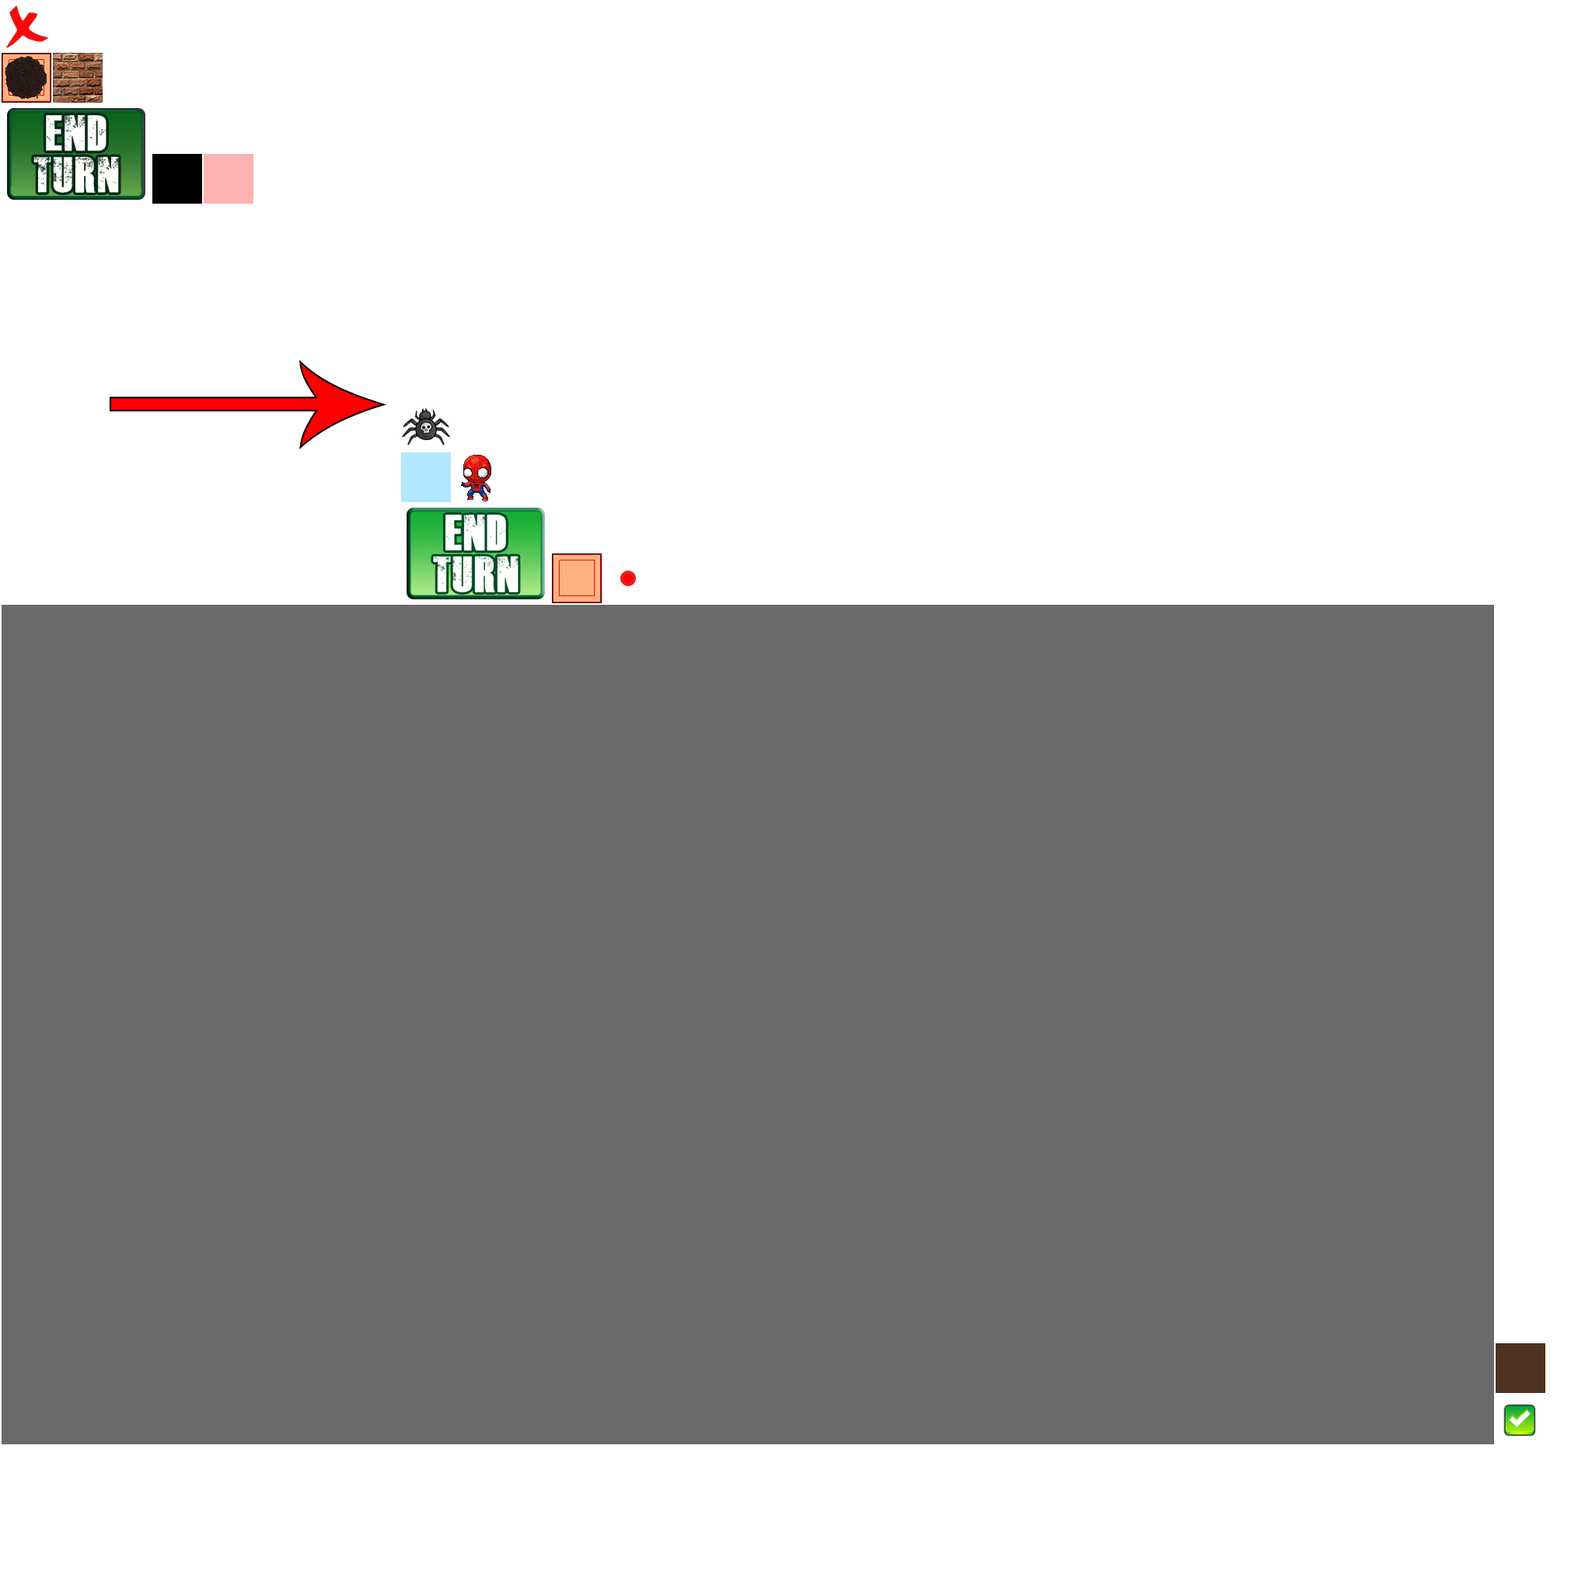
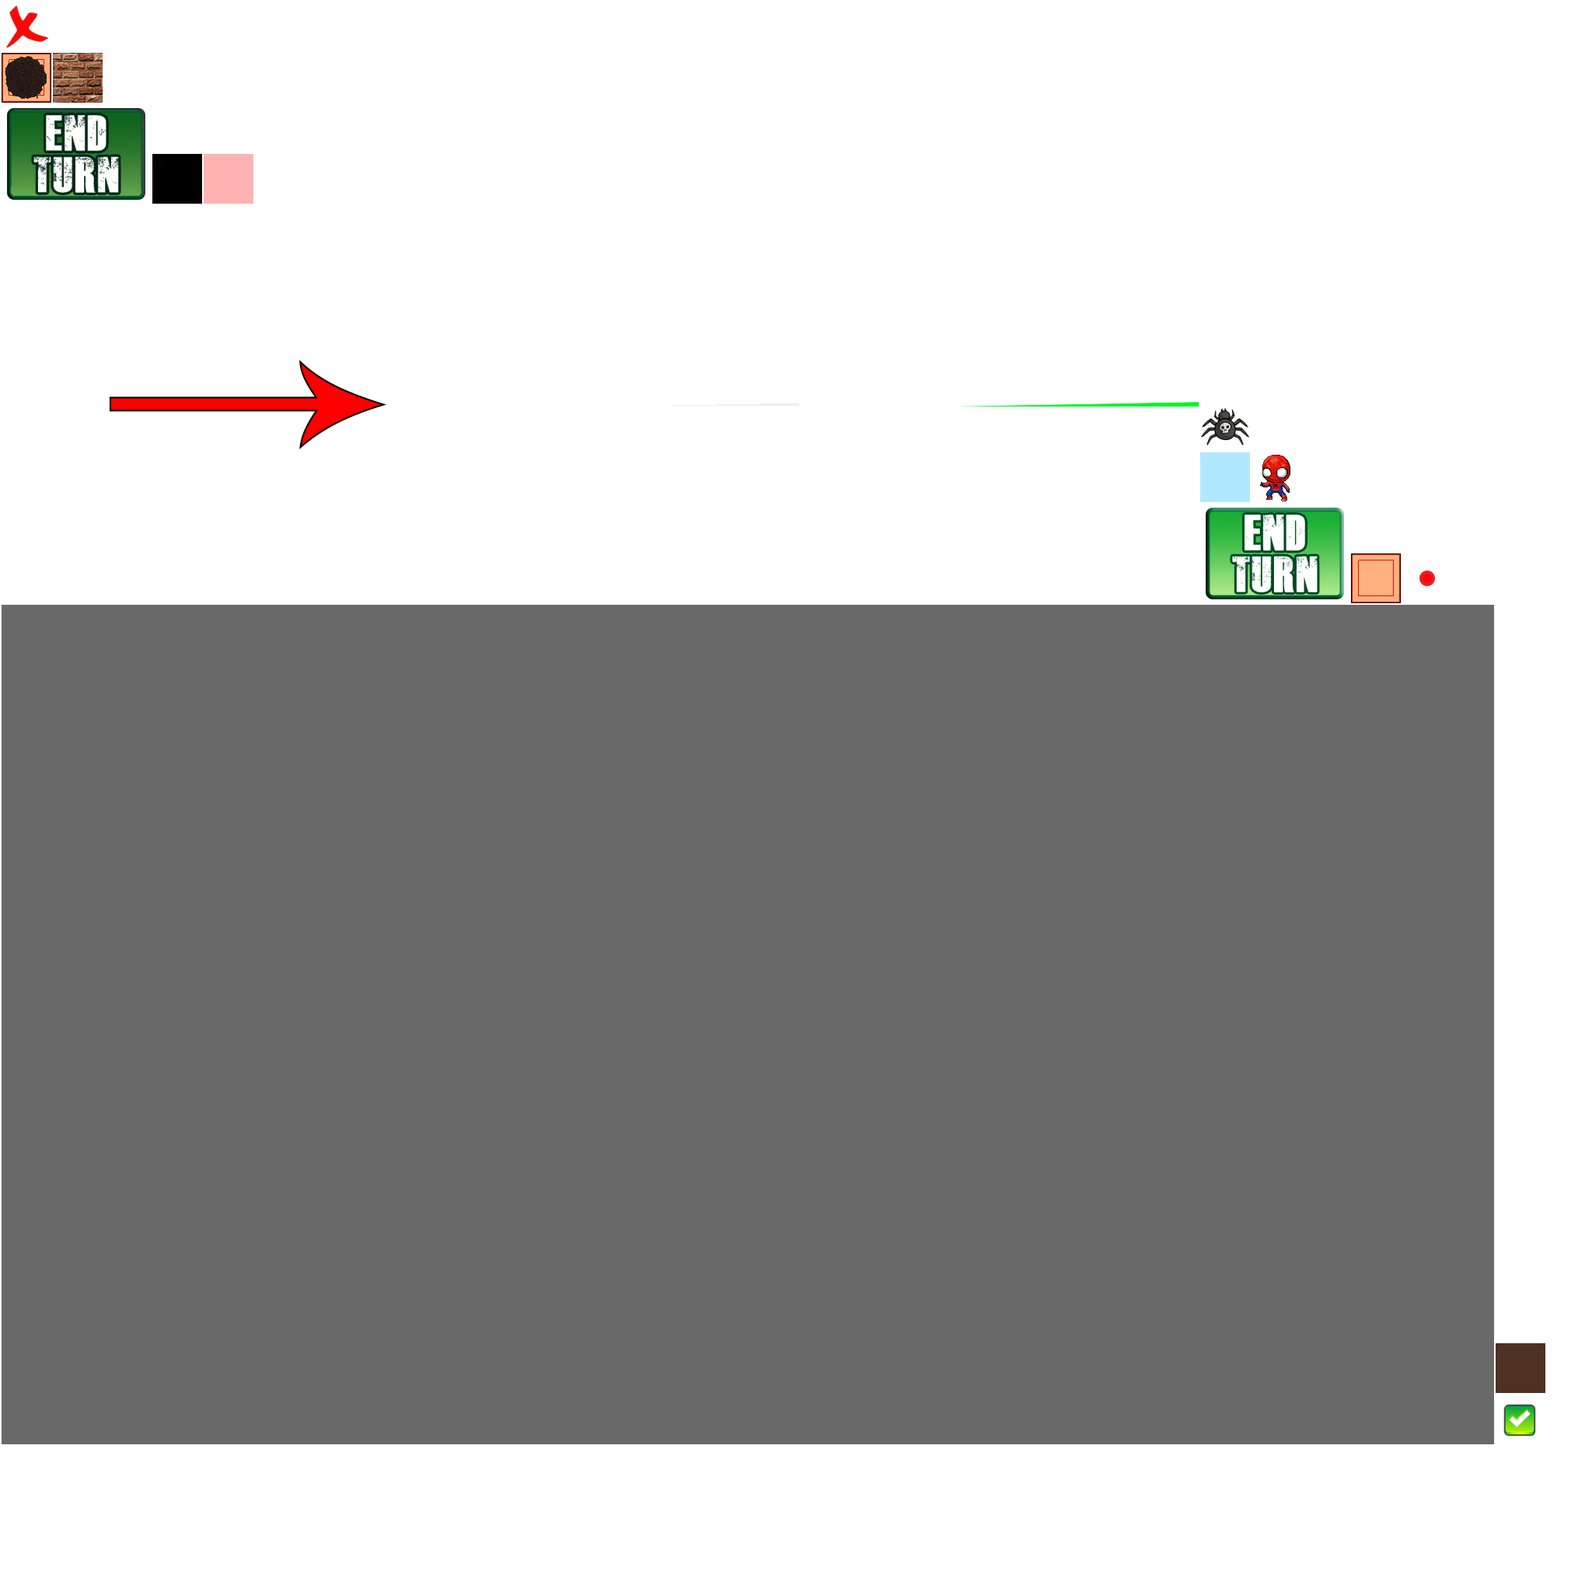
Moved some components and systems in sub packages + test of drawing the wheel using sprites and not shapeRenderer, it works but it's not that pretty. I commented the code and kept the shapeRenderer way for now

Changed region(s): [[0.75, 0.25, 0.9062, 0.4062], [0.25, 0.25, 0.4062, 0.4062]]

diff --git a/core/src/com/dokkaebistudio/tacticaljourney/GameScreen.java b/core/src/com/dokkaebistudio/tacticaljourney/GameScreen.java
@@ -31,13 +31,13 @@ import com.badlogic.gdx.math.Vector3;
 import com.dokkaebistudio.tacticaljourney.components.WheelComponent;
 import com.dokkaebistudio.tacticaljourney.room.Room;
 import com.dokkaebistudio.tacticaljourney.systems.AnimationSystem;
-import com.dokkaebistudio.tacticaljourney.systems.DamageDisplaySystem;
 import com.dokkaebistudio.tacticaljourney.systems.EnemyMoveSystem;
 import com.dokkaebistudio.tacticaljourney.systems.KeyInputMovementSystem;
 import com.dokkaebistudio.tacticaljourney.systems.PlayerAttackSystem;
 import com.dokkaebistudio.tacticaljourney.systems.PlayerMoveSystem;
-import com.dokkaebistudio.tacticaljourney.systems.RenderingSystem;
 import com.dokkaebistudio.tacticaljourney.systems.WheelSystem;
+import com.dokkaebistudio.tacticaljourney.systems.display.DamageDisplaySystem;
+import com.dokkaebistudio.tacticaljourney.systems.display.RenderingSystem;
 
 public class GameScreen extends ScreenAdapter {
 	private static final int GAME_RUNNING = 1;
@@ -58,8 +58,8 @@ public class GameScreen extends ScreenAdapter {
 	private static final Color CRITICAL_COLOR = Color.RED;
 	private static final Color GRAZE_COLOR = Color.GRAY;
 	private static final int WHEEL_RADIUS = 256;
-	private static final int WHEEL_X = SCREEN_W / 2;
-	private static final int WHEEL_Y = SCREEN_H/2;
+	public static final int WHEEL_X = SCREEN_W / 2;
+	public static final int WHEEL_Y = SCREEN_H/2;
 	
 
 	AttackWheel attackWheel = new AttackWheel();
@@ -177,10 +177,16 @@ public class GameScreen extends ScreenAdapter {
 			for(WheelComponent.Sector s: attackWheel.getSectors()){
 				normalizeRanges.add(s.range * 360f / (float)total); // the sum of all ranges is 360 now
 			}
+			
 			// begin render
 			game.shapeRenderer.setProjectionMatrix(guiCam.combined);
 			game.shapeRenderer.begin(ShapeRenderer.ShapeType.Filled);
+			// Draw a black circle behind (in case of missing sectors)
+			game.shapeRenderer.setColor(HIT_COLOR);
+			game.shapeRenderer.arc(WHEEL_X, WHEEL_Y, WHEEL_RADIUS-1, 0, 360);
+			
 			int rangeCumul = 0;
+			
 			for(int i = 0; i< attackWheel.getSectors().size(); i++) {
 				// color
 				switch (attackWheel.getSectors().get(i).hit){
@@ -208,12 +214,45 @@ public class GameScreen extends ScreenAdapter {
 			guiCam.update();
 			game.batcher.setProjectionMatrix(guiCam.combined);
 			game.batcher.begin();
+			
+//			int rangeCumul = 0;
+//			for (Sector s : attackWheel.getSectors()) {
+//				for (int i=rangeCumul ; i < rangeCumul + s.range ; i++) {
+//					Sprite sprite = attackWheel.getArcs().get(i);
+//					switch (s.hit) {
+//					case HIT:
+//						sprite.setColor(HIT_COLOR);
+//						break;
+//					case CRITICAL:
+//						sprite.setColor(CRITICAL_COLOR);
+//						break;
+//					case GRAZE:
+//						sprite.setColor(GRAZE_COLOR);
+//						break;
+//					case MISS:
+//						sprite.setColor(MISS_COLOR);
+//						break;
+//					}
+//				}
+//				rangeCumul += s.range;
+//			}
+//			
+//			List<Sprite> reversedArcs = new ArrayList<>();
+//			reversedArcs.addAll(attackWheel.getArcs());
+//			Collections.reverse(reversedArcs);
+//			for (Sprite arc : reversedArcs) {
+//				arc.draw(game.batcher);
+//			}
+			
+			
+			// Render the arrow
 			Sprite arrow = attackWheel.getArrow();
 			arrow.setPosition(WHEEL_X - arrow.getWidth()/2, WHEEL_Y - arrow.getHeight()/2);
 			arrow.draw(game.batcher);
+			
 			game.batcher.end();
 			
-		}
+		} 
 
 
 	}

diff --git a/core/src/com/dokkaebistudio/tacticaljourney/EntityFactory.java b/core/src/com/dokkaebistudio/tacticaljourney/EntityFactory.java
@@ -11,19 +11,19 @@ import com.badlogic.gdx.graphics.g2d.TextureAtlas;
 import com.badlogic.gdx.math.Vector2;
 import com.badlogic.gdx.math.Vector3;
 import com.dokkaebistudio.tacticaljourney.components.AttackComponent;
-import com.dokkaebistudio.tacticaljourney.components.DamageDisplayComponent;
 import com.dokkaebistudio.tacticaljourney.components.EnemyComponent;
-import com.dokkaebistudio.tacticaljourney.components.GridPositionComponent;
 import com.dokkaebistudio.tacticaljourney.components.HealthComponent;
-import com.dokkaebistudio.tacticaljourney.components.MoveComponent;
 import com.dokkaebistudio.tacticaljourney.components.PlayerComponent;
 import com.dokkaebistudio.tacticaljourney.components.SolidComponent;
-import com.dokkaebistudio.tacticaljourney.components.SpriteComponent;
-import com.dokkaebistudio.tacticaljourney.components.TextComponent;
 import com.dokkaebistudio.tacticaljourney.components.TileComponent;
 import com.dokkaebistudio.tacticaljourney.components.TileComponent.TileEnum;
-import com.dokkaebistudio.tacticaljourney.systems.RenderingSystem;
-import com.dokkaebistudio.tacticaljourney.components.TransformComponent;
+import com.dokkaebistudio.tacticaljourney.components.display.DamageDisplayComponent;
+import com.dokkaebistudio.tacticaljourney.components.display.GridPositionComponent;
+import com.dokkaebistudio.tacticaljourney.components.display.MoveComponent;
+import com.dokkaebistudio.tacticaljourney.components.display.SpriteComponent;
+import com.dokkaebistudio.tacticaljourney.components.display.TextComponent;
+import com.dokkaebistudio.tacticaljourney.components.display.TransformComponent;
+import com.dokkaebistudio.tacticaljourney.systems.display.RenderingSystem;
 import com.dokkaebistudio.tacticaljourney.components.WheelComponent;
 
 /**

diff --git a/core/src/com/dokkaebistudio/tacticaljourney/systems/PlayerAttackSystem.java b/core/src/com/dokkaebistudio/tacticaljourney/systems/PlayerAttackSystem.java
@@ -9,14 +9,14 @@ import com.dokkaebistudio.tacticaljourney.AttackWheel;
 import com.dokkaebistudio.tacticaljourney.GameScreen;
 import com.dokkaebistudio.tacticaljourney.InputSingleton;
 import com.dokkaebistudio.tacticaljourney.components.AttackComponent;
-import com.dokkaebistudio.tacticaljourney.components.GridPositionComponent;
 import com.dokkaebistudio.tacticaljourney.components.HealthComponent;
-import com.dokkaebistudio.tacticaljourney.components.MoveComponent;
 import com.dokkaebistudio.tacticaljourney.components.PlayerComponent;
-import com.dokkaebistudio.tacticaljourney.components.SpriteComponent;
 import com.dokkaebistudio.tacticaljourney.components.TileComponent;
-import com.dokkaebistudio.tacticaljourney.components.TransformComponent;
 import com.dokkaebistudio.tacticaljourney.components.WheelComponent.Sector;
+import com.dokkaebistudio.tacticaljourney.components.display.GridPositionComponent;
+import com.dokkaebistudio.tacticaljourney.components.display.MoveComponent;
+import com.dokkaebistudio.tacticaljourney.components.display.SpriteComponent;
+import com.dokkaebistudio.tacticaljourney.components.display.TransformComponent;
 import com.dokkaebistudio.tacticaljourney.room.Room;
 import com.dokkaebistudio.tacticaljourney.room.RoomState;
 import com.dokkaebistudio.tacticaljourney.util.TileUtil;

diff --git a/core/src/com/dokkaebistudio/tacticaljourney/systems/display/RenderingSystem.java b/core/src/com/dokkaebistudio/tacticaljourney/systems/display/RenderingSystem.java
@@ -14,7 +14,7 @@
  * limitations under the License.
  ******************************************************************************/
 
-package com.dokkaebistudio.tacticaljourney.systems;
+package com.dokkaebistudio.tacticaljourney.systems.display;
 
 import static com.dokkaebistudio.tacticaljourney.GameScreen.SCREEN_H;
 import static com.dokkaebistudio.tacticaljourney.GameScreen.SCREEN_W;
@@ -30,10 +30,10 @@ import com.badlogic.gdx.graphics.g2d.SpriteBatch;
 import com.badlogic.gdx.math.Vector2;
 import com.badlogic.gdx.utils.Array;
 import com.dokkaebistudio.tacticaljourney.GameScreen;
-import com.dokkaebistudio.tacticaljourney.components.GridPositionComponent;
-import com.dokkaebistudio.tacticaljourney.components.SpriteComponent;
-import com.dokkaebistudio.tacticaljourney.components.TextComponent;
-import com.dokkaebistudio.tacticaljourney.components.TransformComponent;
+import com.dokkaebistudio.tacticaljourney.components.display.GridPositionComponent;
+import com.dokkaebistudio.tacticaljourney.components.display.SpriteComponent;
+import com.dokkaebistudio.tacticaljourney.components.display.TextComponent;
+import com.dokkaebistudio.tacticaljourney.components.display.TransformComponent;
 
 public class RenderingSystem extends IteratingSystem {
 

diff --git a/core/src/com/dokkaebistudio/tacticaljourney/AttackWheel.java b/core/src/com/dokkaebistudio/tacticaljourney/AttackWheel.java
@@ -1,5 +1,6 @@
 package com.dokkaebistudio.tacticaljourney;
 
+import java.util.ArrayList;
 import java.util.LinkedList;
 import java.util.List;
 
@@ -15,6 +16,9 @@ public class AttackWheel {
 	/** The list of sectors that compose the wheel. */
 	private List<WheelComponent.Sector> sectors;
 	
+//	/** The 360 arcs that compose the wheel. */
+//	private List<Sprite> arcs;
+	
 	/** The arrow that spins. */
 	private Sprite arrow;
 	
@@ -26,6 +30,14 @@ public class AttackWheel {
 		this.displayed = false;
 		this.sectors = new LinkedList<WheelComponent.Sector>();
 		this.arrow = new Sprite(Assets.getTexture(Assets.wheel_arrow));
+		
+//		this.arcs = new ArrayList<>();
+//		for (int i=0 ; i<360 ; i++) {
+//			Sprite arcSprite = new Sprite(Assets.getTexture(Assets.wheel_arc));
+//			arcSprite.setPosition(GameScreen.WHEEL_X - arcSprite.getWidth()/2, GameScreen.WHEEL_Y - arcSprite.getHeight()/2);
+//			arcSprite.setRotation(i);
+//			this.arcs.add(arcSprite);
+//		}
 	}
 	
 	/**
@@ -86,4 +98,14 @@ public class AttackWheel {
 	public Sector getPointedSector() {
 		return pointedSector;
 	}
+
+//	public List<Sprite> getArcs() {
+//		return arcs;
+//	}
+//
+//	public void setArcs(List<Sprite> arcs) {
+//		this.arcs = arcs;
+//	}
+	
+	
 }

diff --git a/core/src/com/dokkaebistudio/tacticaljourney/room/AttackManager.java b/core/src/com/dokkaebistudio/tacticaljourney/room/AttackManager.java
@@ -9,13 +9,13 @@ import com.badlogic.gdx.math.Vector2;
 import com.dokkaebistudio.tacticaljourney.Assets;
 import com.dokkaebistudio.tacticaljourney.GameScreen;
 import com.dokkaebistudio.tacticaljourney.components.AttackComponent;
-import com.dokkaebistudio.tacticaljourney.components.DamageDisplayComponent;
-import com.dokkaebistudio.tacticaljourney.components.GridPositionComponent;
 import com.dokkaebistudio.tacticaljourney.components.HealthComponent;
-import com.dokkaebistudio.tacticaljourney.components.TextComponent;
-import com.dokkaebistudio.tacticaljourney.components.TransformComponent;
 import com.dokkaebistudio.tacticaljourney.components.WheelComponent.Sector;
-import com.dokkaebistudio.tacticaljourney.systems.RenderingSystem;
+import com.dokkaebistudio.tacticaljourney.components.display.DamageDisplayComponent;
+import com.dokkaebistudio.tacticaljourney.components.display.GridPositionComponent;
+import com.dokkaebistudio.tacticaljourney.components.display.TextComponent;
+import com.dokkaebistudio.tacticaljourney.components.display.TransformComponent;
+import com.dokkaebistudio.tacticaljourney.systems.display.RenderingSystem;
 
 /**
  * Manage the attacks between entities, checks whether the attack lands or fails,

diff --git a/core/src/com/dokkaebistudio/tacticaljourney/systems/PlayerMoveSystem.java b/core/src/com/dokkaebistudio/tacticaljourney/systems/PlayerMoveSystem.java
@@ -14,12 +14,12 @@ import com.dokkaebistudio.tacticaljourney.GameScreen;
 import com.dokkaebistudio.tacticaljourney.InputSingleton;
 import com.dokkaebistudio.tacticaljourney.ai.movements.TileSearchUtil;
 import com.dokkaebistudio.tacticaljourney.components.AttackComponent;
-import com.dokkaebistudio.tacticaljourney.components.GridPositionComponent;
-import com.dokkaebistudio.tacticaljourney.components.MoveComponent;
 import com.dokkaebistudio.tacticaljourney.components.PlayerComponent;
-import com.dokkaebistudio.tacticaljourney.components.SpriteComponent;
 import com.dokkaebistudio.tacticaljourney.components.TileComponent;
-import com.dokkaebistudio.tacticaljourney.components.TransformComponent;
+import com.dokkaebistudio.tacticaljourney.components.display.GridPositionComponent;
+import com.dokkaebistudio.tacticaljourney.components.display.MoveComponent;
+import com.dokkaebistudio.tacticaljourney.components.display.SpriteComponent;
+import com.dokkaebistudio.tacticaljourney.components.display.TransformComponent;
 import com.dokkaebistudio.tacticaljourney.room.Room;
 import com.dokkaebistudio.tacticaljourney.room.RoomState;
 import com.dokkaebistudio.tacticaljourney.util.MovementHandler;

diff --git a/core/src/com/dokkaebistudio/tacticaljourney/components/display/AnimationComponent.java b/core/src/com/dokkaebistudio/tacticaljourney/components/display/AnimationComponent.java
@@ -1,5 +1,5 @@
 /*******************************************************************************
- * Copyright 2014 See AUTHORS file.
+ * Copyright 2011 See AUTHORS file.
  * 
  * Licensed under the Apache License, Version 2.0 (the "License");
  * you may not use this file except in compliance with the License.
@@ -14,14 +14,13 @@
  * limitations under the License.
  ******************************************************************************/
 
-package com.dokkaebistudio.tacticaljourney.components;
+package com.dokkaebistudio.tacticaljourney.components.display;
 
 import com.badlogic.ashley.core.Component;
-import com.badlogic.gdx.math.Vector2;
-import com.badlogic.gdx.math.Vector3;
+import com.badlogic.gdx.graphics.g2d.Animation;
+import com.badlogic.gdx.graphics.g2d.Sprite;
+import com.badlogic.gdx.utils.IntMap;
 
-public class TransformComponent implements Component {
-	public final Vector3 pos = new Vector3();
-	public final Vector2 scale = new Vector2(1.0f, 1.0f);
-	public float rotation = 0.0f;
+public class AnimationComponent implements Component {
+	public IntMap<Animation<Sprite>> animations = new IntMap<Animation<Sprite>>();
 }

diff --git a/core/src/com/dokkaebistudio/tacticaljourney/components/display/TransformComponent.java b/core/src/com/dokkaebistudio/tacticaljourney/components/display/TransformComponent.java
@@ -1,5 +1,5 @@
 /*******************************************************************************
- * Copyright 2011 See AUTHORS file.
+ * Copyright 2014 See AUTHORS file.
  * 
  * Licensed under the Apache License, Version 2.0 (the "License");
  * you may not use this file except in compliance with the License.
@@ -14,13 +14,14 @@
  * limitations under the License.
  ******************************************************************************/
 
-package com.dokkaebistudio.tacticaljourney.components;
+package com.dokkaebistudio.tacticaljourney.components.display;
 
 import com.badlogic.ashley.core.Component;
-import com.badlogic.gdx.graphics.g2d.Animation;
-import com.badlogic.gdx.graphics.g2d.Sprite;
-import com.badlogic.gdx.utils.IntMap;
+import com.badlogic.gdx.math.Vector2;
+import com.badlogic.gdx.math.Vector3;
 
-public class AnimationComponent implements Component {
-	public IntMap<Animation<Sprite>> animations = new IntMap<Animation<Sprite>>();
+public class TransformComponent implements Component {
+	public final Vector3 pos = new Vector3();
+	public final Vector2 scale = new Vector2(1.0f, 1.0f);
+	public float rotation = 0.0f;
 }

diff --git a/core/src/com/dokkaebistudio/tacticaljourney/systems/EnemyMoveSystem.java b/core/src/com/dokkaebistudio/tacticaljourney/systems/EnemyMoveSystem.java
@@ -12,11 +12,11 @@ import com.badlogic.ashley.utils.ImmutableArray;
 import com.dokkaebistudio.tacticaljourney.ai.movements.TileSearchUtil;
 import com.dokkaebistudio.tacticaljourney.components.AttackComponent;
 import com.dokkaebistudio.tacticaljourney.components.EnemyComponent;
-import com.dokkaebistudio.tacticaljourney.components.GridPositionComponent;
-import com.dokkaebistudio.tacticaljourney.components.MoveComponent;
-import com.dokkaebistudio.tacticaljourney.components.SpriteComponent;
 import com.dokkaebistudio.tacticaljourney.components.TileComponent;
-import com.dokkaebistudio.tacticaljourney.components.TransformComponent;
+import com.dokkaebistudio.tacticaljourney.components.display.GridPositionComponent;
+import com.dokkaebistudio.tacticaljourney.components.display.MoveComponent;
+import com.dokkaebistudio.tacticaljourney.components.display.SpriteComponent;
+import com.dokkaebistudio.tacticaljourney.components.display.TransformComponent;
 import com.dokkaebistudio.tacticaljourney.room.Room;
 import com.dokkaebistudio.tacticaljourney.room.RoomState;
 import com.dokkaebistudio.tacticaljourney.util.MovementHandler;

diff --git a/core/src/com/dokkaebistudio/tacticaljourney/util/MovementHandler.java b/core/src/com/dokkaebistudio/tacticaljourney/util/MovementHandler.java
@@ -8,12 +8,12 @@ import com.badlogic.ashley.core.ComponentMapper;
 import com.badlogic.ashley.core.Entity;
 import com.badlogic.ashley.core.PooledEngine;
 import com.badlogic.gdx.math.Vector2;
-import com.dokkaebistudio.tacticaljourney.components.GridPositionComponent;
-import com.dokkaebistudio.tacticaljourney.components.MoveComponent;
-import com.dokkaebistudio.tacticaljourney.components.TransformComponent;
+import com.dokkaebistudio.tacticaljourney.components.display.GridPositionComponent;
+import com.dokkaebistudio.tacticaljourney.components.display.MoveComponent;
+import com.dokkaebistudio.tacticaljourney.components.display.TransformComponent;
 import com.dokkaebistudio.tacticaljourney.components.interfaces.MovableInterface;
 import com.dokkaebistudio.tacticaljourney.room.Room;
-import com.dokkaebistudio.tacticaljourney.systems.RenderingSystem;
+import com.dokkaebistudio.tacticaljourney.systems.display.RenderingSystem;
 
 /**
  * @author Callil

diff --git a/core/src/com/dokkaebistudio/tacticaljourney/systems/display/DamageDisplaySystem.java b/core/src/com/dokkaebistudio/tacticaljourney/systems/display/DamageDisplaySystem.java
@@ -1,12 +1,12 @@
-package com.dokkaebistudio.tacticaljourney.systems;
+package com.dokkaebistudio.tacticaljourney.systems.display;
 
 import com.badlogic.ashley.core.ComponentMapper;
 import com.badlogic.ashley.core.Entity;
 import com.badlogic.ashley.core.Family;
 import com.badlogic.ashley.systems.IteratingSystem;
-import com.dokkaebistudio.tacticaljourney.components.DamageDisplayComponent;
-import com.dokkaebistudio.tacticaljourney.components.TextComponent;
-import com.dokkaebistudio.tacticaljourney.components.TransformComponent;
+import com.dokkaebistudio.tacticaljourney.components.display.DamageDisplayComponent;
+import com.dokkaebistudio.tacticaljourney.components.display.TextComponent;
+import com.dokkaebistudio.tacticaljourney.components.display.TransformComponent;
 import com.dokkaebistudio.tacticaljourney.room.Room;
 
 public class DamageDisplaySystem extends IteratingSystem {
